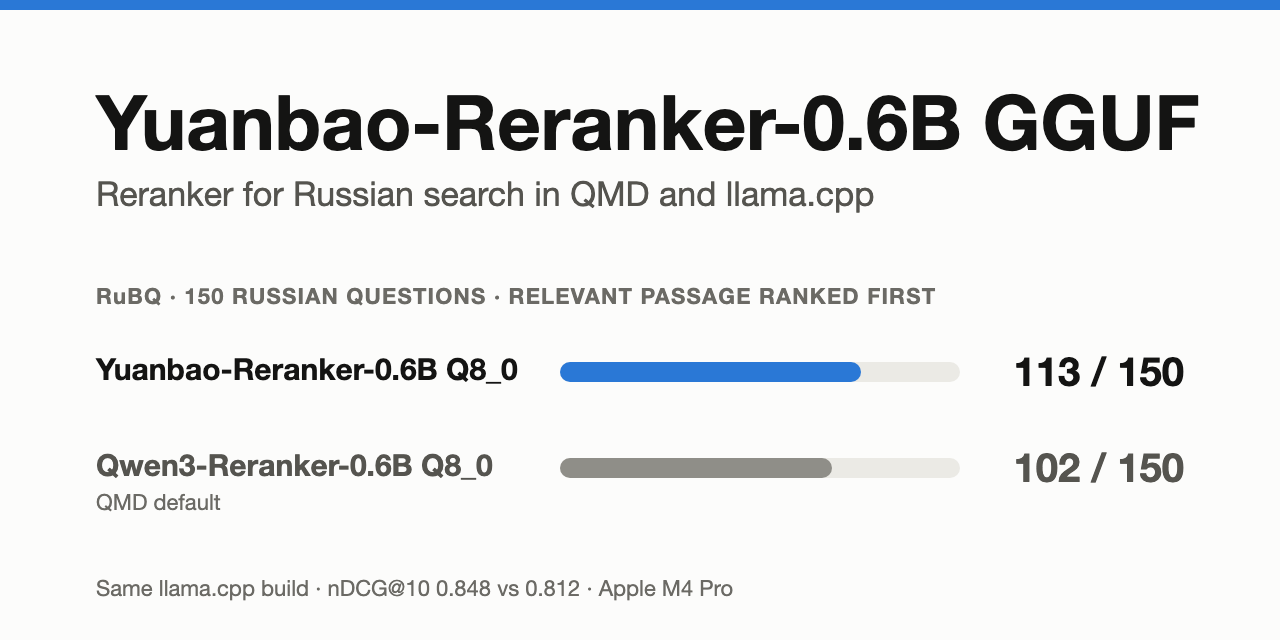
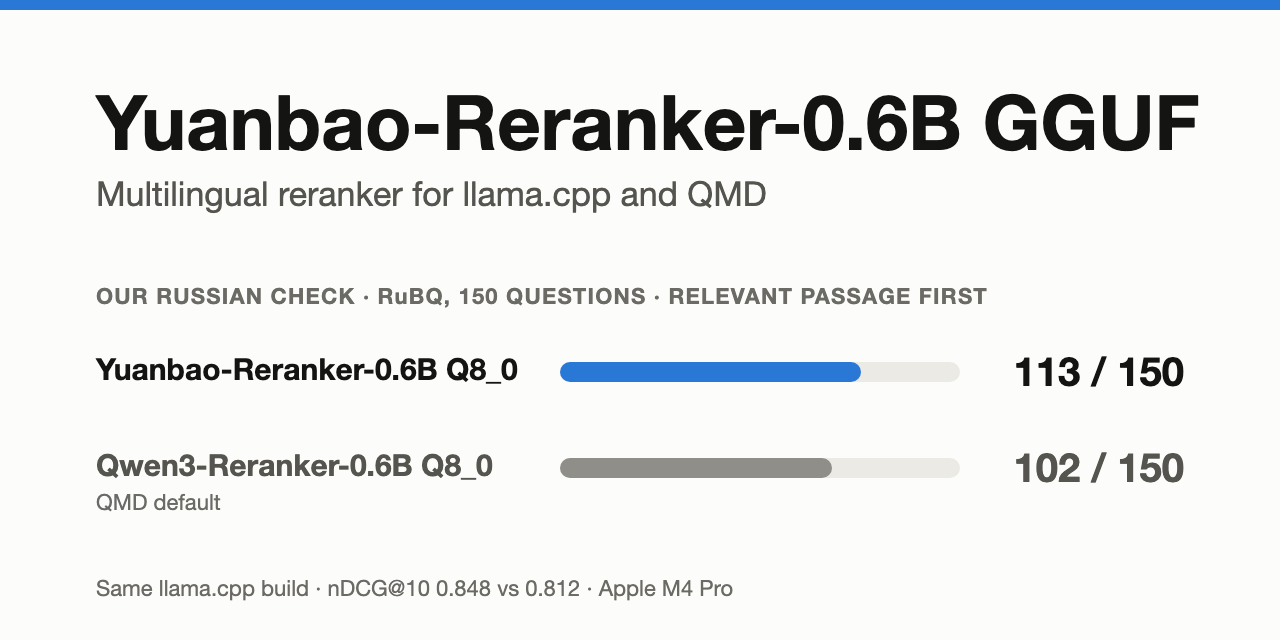
Present Yuanbao as a multilingual Qwen3-based reranker

Changed region(s): [[0.0625, 0.4375, 0.7812, 0.5], [0.0625, 0.2812, 0.6875, 0.3438]]

diff --git a/assets/header/build_header.py b/assets/header/build_header.py
@@ -23,12 +23,12 @@ FONT = "-apple-system, 'SF Pro Text', 'Helvetica Neue', Arial, sans-serif"
 
 TEXT = {
     "en": {
-        "subtitle": "Reranker for Russian search in QMD and llama.cpp",
+        "subtitle": "Multilingual reranker for llama.cpp and QMD",
         "files": "Q8_0 · Q4_K_M · F16",
-        "example": "ONE QUESTION, TWO PASSAGES · Q8_0 · llama-server /v1/rerank",
+        "example": "RUSSIAN EXAMPLE · ONE QUESTION, TWO PASSAGES · Q8_0 · /v1/rerank",
         "gloss": ["Open the subscriptions section and turn off automatic renewal.",
                   "To change the password, open the security settings."],
-        "rubq": "RuBQ · 150 RUSSIAN QUESTIONS · SAME LLAMA.CPP BUILD",
+        "rubq": "OUR RUSSIAN CHECK · RuBQ, 150 QUESTIONS · SAME LLAMA.CPP BUILD",
         "of": "of",
         "first": "relevant passage ranked first",
         "qwen": "Qwen3-Reranker-0.6B Q8_0 · QMD default",
@@ -36,11 +36,11 @@ TEXT = {
         "decimal": ".",
     },
     "ru": {
-        "subtitle": "Реранкер для русского поиска в QMD и llama.cpp",
+        "subtitle": "Многоязычный реранкер для llama.cpp и QMD",
         "files": "Q8_0 · Q4_K_M · F16",
-        "example": "ОДИН ВОПРОС, ДВА ФРАГМЕНТА · Q8_0 · llama-server /v1/rerank",
+        "example": "ПРИМЕР НА РУССКОМ · ОДИН ВОПРОС, ДВА ФРАГМЕНТА · Q8_0 · /v1/rerank",
         "gloss": None,
-        "rubq": "RuBQ · 150 РУССКИХ ВОПРОСОВ · ОДНА СБОРКА LLAMA.CPP",
+        "rubq": "НАША ПРОВЕРКА НА РУССКОМ · RuBQ, 150 ВОПРОСОВ · ОДНА СБОРКА LLAMA.CPP",
         "of": "из",
         "first": "релевантный фрагмент первым",
         "qwen": "Qwen3-Reranker-0.6B Q8_0 · штатный в QMD",

diff --git a/assets/header/build_social.py b/assets/header/build_social.py
@@ -34,8 +34,8 @@ out = [
     f'<rect width="{W}" height="{H}" fill="{SURFACE}"/>',
     f'<rect x="0" y="0" width="{W}" height="10" fill="{ACCENT}"/>',
     text(PAD, 150, "Yuanbao-Reranker-0.6B GGUF", 76, weight=700),
-    text(PAD, 206, "Reranker for Russian search in QMD and llama.cpp", 34, MUTED),
-    text(PAD, 304, f"RuBQ · {total} RUSSIAN QUESTIONS · RELEVANT PASSAGE RANKED FIRST", 22, FAINT, 600, spacing=1.2),
+    text(PAD, 206, "Multilingual reranker for llama.cpp and QMD", 34, MUTED),
+    text(PAD, 304, f"OUR RUSSIAN CHECK · RuBQ, {total} QUESTIONS · RELEVANT PASSAGE FIRST", 22, FAINT, 600, spacing=1.2),
 ]
 track_x, track_w, y = 560, 400, 376
 for label, note, model, color, ink in rows:
@@ -51,7 +51,7 @@ out.append(text(PAD, H - 44, "Same llama.cpp build · nDCG@10 0.848 vs 0.812 · 
 
 svg = (f'<svg xmlns="http://www.w3.org/2000/svg" width="{W}" height="{H}" viewBox="0 0 {W} {H}" '
        f'role="img" aria-labelledby="title" font-family="{FONT}">\n'
-       f'  <title id="title">Yuanbao-Reranker-0.6B GGUF: relevant passage first for 113 of 150 RuBQ questions, '
+       f'  <title id="title">Yuanbao-Reranker-0.6B GGUF, multilingual reranker. Russian RuBQ check: relevant passage first for 113 of 150 questions, '
        f'102 for Qwen3-Reranker-0.6B Q8_0</title>\n  ' + "\n  ".join(out) + "\n</svg>\n")
 (HERE / "social-preview.svg").write_text(svg)
 print("ok")

diff --git a/README.ru.md b/README.ru.md
@@ -1,9 +1,9 @@
 ---
 type: Project Guide
-description: "Yuanbao-Reranker-0.6B в GGUF Q8_0 и Q4_K_M: реранкер для русского поиска в QMD и llama-server /v1/rerank на Apple Silicon и CPU, оценка на RuBQ."
+description: "Многоязычный Yuanbao-Reranker-0.6B от Tencent (дообучен из Qwen3-0.6B) в GGUF Q8_0 и Q4_K_M: llama-server /v1/rerank на Metal и CPU, QMD на Metal, проверка на русском RuBQ."
 created: "2026-11-24"
 ---
-# Yuanbao-Reranker-0.6B GGUF: реранкер для русского языка в QMD и llama.cpp
+# Yuanbao-Reranker-0.6B GGUF: многоязычный реранкер для llama.cpp и QMD (Q8_0, Q4_K_M)
 
 [English](README.md) ·
 [Hugging Face](https://huggingface.co/ai-babai/Yuanbao-Reranker-0.6B-GGUF) ·
@@ -14,13 +14,9 @@ created: "2026-11-24"
 [Open WebUI + Giga Embeddings](docs/open-webui.md) ·
 [Для агентов](AGENTS.md)
 
-![Yuanbao-Reranker-0.6B GGUF. На вопрос «Как отключить автопродление подписки?» llama-server с Q8_0 дал абзацу о подписке 0,943, абзацу о пароле 0,0005. На 150 русских вопросах RuBQ Yuanbao Q8_0 поставил релевантный фрагмент первым в 113 случаях, Qwen3-Reranker-0.6B Q8_0 — в 102; nDCG@10 0,848 против 0,812.](assets/yuanbao-reranker-header-ru.png)
+![Yuanbao-Reranker-0.6B GGUF, многоязычный реранкер. Наш русский пример: на вопрос «Как отключить автопродление подписки?» llama-server с Q8_0 дал абзацу о подписке 0,943, абзацу о пароле 0,0005. На 150 русских вопросах RuBQ Yuanbao Q8_0 поставил релевантный фрагмент первым в 113 случаях, Qwen3-Reranker-0.6B Q8_0 — в 102; nDCG@10 0,848 против 0,812.](assets/yuanbao-reranker-header-ru.png)
 
-Многоязычный Yuanbao-Reranker-0.6B от Tencent в GGUF для локального поиска по
-русским текстам и RAG. Штатный `llama-server --reranking` отдаёт его через
-`/v1/rerank`, а QMD подключает через `models.rerank`. Проверено на Apple
-Silicon с Metal и на CPU. Независимая конвертация ai-babai, а не официальный
-релиз Tencent.
+Tencent дообучила Qwen3-0.6B для многоязычного поиска и RAG. В формате GGUF Yuanbao можно запускать локально для поиска по текстам на английском, китайском, русском и других языках. Мы проверили запуск в llama.cpp на Metal и CPU, интеграцию с QMD на Metal и качество ранжирования на русском бенчмарке RuBQ. [Статья Tencent](https://arxiv.org/abs/2611.10405)
 
 ## Какой файл выбрать
 
@@ -90,7 +86,7 @@ Horizon Labs. Все GGUF запускались на одной сборке ll
 Исходные веса BF16 в PyTorch на тех же вопросах дали 0,8488 и 0,8419.
 Три файла Yuanbao расходятся не больше чем на 0,0012 nDCG@10. Q4_K_M чаще
 меняет первый фрагмент, поэтому основным остаётся Q8_0.
-По сравнению с Qwen3 Q8_0 у Yuanbao Q8_0 nDCG@10 выше на 0,0355, парный
+По сравнению с Qwen3-Reranker-0.6B Q8_0 у Yuanbao Q8_0 nDCG@10 выше на 0,0355, парный
 бутстреп даёт 95-процентный интервал от +0,0184 до +0,0536. Horizon Labs
 опубликовали для BGE-Reranker-v2-m3 на этой выборке 0,8608 nDCG@10; это
 исходные веса на CUDA.
@@ -167,8 +163,10 @@ models:
 
 ## Что учесть перед использованием
 
-- Промпт ранжирования зашит в GGUF. В нём английская инструкция для
-  веб-поиска из оценки, и `/v1/rerank` не меняет её от запроса к запросу.
+- Во всех запросах используется одна встроенная английская инструкция
+  «Given a web search query, retrieve relevant passages that answer the query»:
+  вопрос и документы могут быть на русском, английском, китайском и других
+  языках, но заменить инструкцию под свою задачу через `/v1/rerank` нельзя.
 - Оценка нужна, чтобы упорядочить кандидатов для одного вопроса. Фиксированные
   пороги оценки мы не проверяли.
 - В оценке каждая пара «вопрос — фрагмент» ограничена 512 токенами. Более
@@ -203,7 +201,7 @@ uv run --script scripts/prepare_rubq.py /path/to/bench/rubq.parquet
 
 Независимая конвертация ai-babai
 [checkpoint Tencent Yuanbao Search](https://huggingface.co/Yuanbao-Search/Yuanbao-Reranker-0.6B/tree/0101299a7937a016848d8d55b092f6e31cfa312d),
-основанного на Qwen3, под лицензией Apache-2.0. Изменения: конвертация в GGUF
+дообученного Tencent из Qwen3-0.6B, под лицензией Apache-2.0. Изменения: конвертация в GGUF
 для ранжирования, настройка промпта и квантование. См. [LICENSE](LICENSE) и
 [NOTICE](NOTICE). Для сравнения использован
 [GGUF ggml-org Qwen3-Reranker-0.6B-Q8_0](https://huggingface.co/ggml-org/Qwen3-Reranker-0.6B-Q8_0-GGUF/tree/a02f48bb4f057028298c21fa033da2b30d7742d5).

diff --git a/model-card/README.ru.md b/model-card/README.ru.md
@@ -1,4 +1,4 @@
-# Yuanbao-Reranker-0.6B GGUF: реранкер для русского языка в QMD и llama.cpp
+# Yuanbao-Reranker-0.6B GGUF: многоязычный реранкер для llama.cpp и QMD (Q8_0, Q4_K_M)
 
 [English](README.md) ·
 [Быстрый старт](#быстрый-старт) ·
@@ -10,13 +10,9 @@
 [GitHub](https://github.com/ai-babai/yuanbao-reranker-gguf/blob/main/README.ru.md) ·
 [Исходная модель](https://huggingface.co/Yuanbao-Search/Yuanbao-Reranker-0.6B)
 
-![Yuanbao-Reranker-0.6B GGUF. На вопрос «Как отключить автопродление подписки?» llama-server с Q8_0 дал абзацу о подписке 0,943, абзацу о пароле 0,0005. На 150 русских вопросах RuBQ Yuanbao Q8_0 поставил релевантный фрагмент первым в 113 случаях, Qwen3-Reranker-0.6B Q8_0 — в 102; nDCG@10 0,848 против 0,812.](https://huggingface.co/ai-babai/Yuanbao-Reranker-0.6B-GGUF/resolve/main/assets/yuanbao-reranker-header-ru.png)
+![Yuanbao-Reranker-0.6B GGUF, многоязычный реранкер. Наш русский пример: на вопрос «Как отключить автопродление подписки?» llama-server с Q8_0 дал абзацу о подписке 0,943, абзацу о пароле 0,0005. На 150 русских вопросах RuBQ Yuanbao Q8_0 поставил релевантный фрагмент первым в 113 случаях, Qwen3-Reranker-0.6B Q8_0 — в 102; nDCG@10 0,848 против 0,812.](https://huggingface.co/ai-babai/Yuanbao-Reranker-0.6B-GGUF/resolve/main/assets/yuanbao-reranker-header-ru.png)
 
-Многоязычный Yuanbao-Reranker-0.6B от Tencent в GGUF для локального поиска по
-русским текстам и RAG. Штатный `llama-server --reranking` отдаёт его через
-`/v1/rerank`, а QMD подключает через `models.rerank`. Проверено на Apple
-Silicon с Metal и на CPU. Независимая конвертация ai-babai, а не официальный
-релиз Tencent.
+Tencent дообучила Qwen3-0.6B для многоязычного поиска и RAG. В формате GGUF Yuanbao можно запускать локально для поиска по текстам на английском, китайском, русском и других языках. Мы проверили запуск в llama.cpp на Metal и CPU, интеграцию с QMD на Metal и качество ранжирования на русском бенчмарке RuBQ. [Статья Tencent](https://arxiv.org/abs/2611.10405)
 
 ## Файлы
 
@@ -89,7 +85,7 @@ Labs. Все GGUF запускались на одной сборке llama.cpp 
 Исходные веса BF16 в PyTorch дали 0,8488 и 0,8419.
 Три файла Yuanbao расходятся не больше чем на 0,0012 nDCG@10. Q4_K_M чаще
 меняет первый фрагмент, поэтому основным остаётся Q8_0.
-По сравнению с Qwen3 Q8_0 у Yuanbao Q8_0 nDCG@10 выше на 0,0355, парный
+По сравнению с Qwen3-Reranker-0.6B Q8_0 у Yuanbao Q8_0 nDCG@10 выше на 0,0355, парный
 бутстреп даёт 95-процентный интервал от +0,0184 до +0,0536.
 
 [Полные результаты: равные оценки, согласие оценок, задержка и память, англ.](results/rubq-pilot.md) ·
@@ -142,8 +138,10 @@ models:
 ## Ограничения
 
 - Бенчмарк качества охватывает русский RuBQ. Для английского и китайского проверены по два примера.
-- Промпт ранжирования зашит в GGUF. В нём английская инструкция для
-  веб-поиска, и `/v1/rerank` не меняет её от запроса к запросу.
+- Во всех запросах используется одна встроенная английская инструкция
+  «Given a web search query, retrieve relevant passages that answer the query»:
+  вопрос и документы могут быть на русском, английском, китайском и других
+  языках, но заменить инструкцию под свою задачу через `/v1/rerank` нельзя.
 - Оценка нужна, чтобы упорядочить кандидатов для одного вопроса. Фиксированные
   пороги оценки мы не проверяли.
 - В оценке вход ограничен 512 токенами. Более длинные фрагменты могут
@@ -157,7 +155,7 @@ models:
 
 Apache-2.0, как у исходной модели. Конвертировано из
 [Yuanbao-Search/Yuanbao-Reranker-0.6B](https://huggingface.co/Yuanbao-Search/Yuanbao-Reranker-0.6B/tree/0101299a7937a016848d8d55b092f6e31cfa312d)
-ревизии `0101299`, основанной на Qwen3. Изменения: конвертация в GGUF для
+ревизии `0101299`, которую Tencent дообучила из Qwen3-0.6B. Изменения: конвертация в GGUF для
 ранжирования, настройка промпта и квантование. См. [LICENSE](LICENSE) и
 [NOTICE](NOTICE). Метки RuBQ распространяются по CC BY-SA 4.0.
 [Рецепт конвертации, англ.](docs/conversion.md)

diff --git a/README.md b/README.md
@@ -1,9 +1,9 @@
 ---
 type: Project Guide
-description: "Yuanbao-Reranker-0.6B GGUF in Q8_0 and Q4_K_M for QMD and llama-server /v1/rerank on Apple Silicon and CPU, with a Russian RuBQ evaluation."
+description: "Tencent's multilingual Yuanbao-Reranker-0.6B (Qwen3-0.6B fine-tune) in GGUF Q8_0 and Q4_K_M: llama-server /v1/rerank on Metal and CPU, QMD on Metal, Russian RuBQ check."
 created: "2026-11-24"
 ---
-# Yuanbao-Reranker-0.6B GGUF: Q8_0 and Q4_K_M reranker for Russian search in QMD and llama.cpp
+# Yuanbao-Reranker-0.6B GGUF: multilingual reranker for llama.cpp and QMD (Q8_0, Q4_K_M)
 
 [Русская версия](README.ru.md) ·
 [Hugging Face](https://huggingface.co/ai-babai/Yuanbao-Reranker-0.6B-GGUF) ·
@@ -14,12 +14,9 @@ created: "2026-11-24"
 [Open WebUI + Giga Embeddings](docs/open-webui.md) ·
 [For agents](AGENTS.md)
 
-![Yuanbao-Reranker-0.6B GGUF. For the question «Как отключить автопродление подписки?», llama-server with Q8_0 scored the subscription passage 0.943 and the password passage 0.0005. On 150 Russian RuBQ questions, Yuanbao Q8_0 ranked a relevant passage first for 113 and Qwen3-Reranker-0.6B Q8_0 for 102; nDCG@10 0.848 against 0.812.](assets/yuanbao-reranker-header-en.png)
+![Yuanbao-Reranker-0.6B GGUF, a multilingual reranker. Our Russian example: for the question «Как отключить автопродление подписки?», llama-server with Q8_0 scored the subscription passage 0.943 and the password passage 0.0005. On 150 Russian RuBQ questions in our check, Yuanbao Q8_0 ranked a relevant passage first for 113 and Qwen3-Reranker-0.6B Q8_0 for 102; nDCG@10 0.848 against 0.812.](assets/yuanbao-reranker-header-en.png)
 
-Tencent's multilingual Yuanbao-Reranker-0.6B in GGUF for local Russian search
-and RAG. Stock `llama-server --reranking` serves it at `/v1/rerank`, and QMD
-loads it through `models.rerank`. Tested on Apple Silicon with Metal and on
-CPU. Independent ai-babai conversion, not an official Tencent release.
+Tencent fine-tuned Qwen3-0.6B for multilingual search and RAG. This GGUF port of Yuanbao runs locally on English, Chinese, Russian and other languages. We tested llama.cpp on Apple Metal and CPU, QMD on Metal, and ranking quality on the Russian RuBQ benchmark. [Tencent’s paper](https://arxiv.org/abs/2611.10405)
 
 ## Choose a file
 
@@ -92,7 +89,7 @@ Higher is better.
 The original BF16 weights in PyTorch scored 0.8488 and 0.8419 on the same
 questions. The three Yuanbao files differ by at most 0.0012 nDCG@10. Q4_K_M changes which
 passage comes first more often, so Q8_0 stays the default.
-Against the Qwen3 Q8_0, Yuanbao Q8_0 gained +0.0355 nDCG@10, with a paired
+Against Qwen3-Reranker-0.6B Q8_0, Yuanbao Q8_0 gained +0.0355 nDCG@10, with a paired
 bootstrap 95% interval of +0.0184 to +0.0536.
 Horizon Labs published 0.8608 nDCG@10 for BGE-Reranker-v2-m3 on this sample,
 measured on CUDA with the original weights.
@@ -168,9 +165,10 @@ guide pairs it with Giga Embeddings served by a second llama-server.
 
 ## Before you rely on the scores
 
-- The ranking prompt is fixed in the GGUF. It uses the English web-search
-  instruction from the evaluation, and `/v1/rerank` does not change it per
-  request.
+- Every request uses one built-in English instruction, "Given a web search
+  query, retrieve relevant passages that answer the query": the query and
+  documents can be in Russian, English, Chinese or other languages, but `/v1/rerank` cannot swap the
+  instruction for a task-specific one.
 - Use the score to order candidates for one question. We did not test fixed
   score thresholds.
 - The evaluation limits each question–passage input to 512 tokens. Longer
@@ -205,7 +203,7 @@ The two models tested together in Open WebUI are listed in [Russian RAG on llama
 
 Independent ai-babai conversion of the
 [Tencent Yuanbao Search checkpoint](https://huggingface.co/Yuanbao-Search/Yuanbao-Reranker-0.6B/tree/0101299a7937a016848d8d55b092f6e31cfa312d),
-derived from Qwen3 and released under Apache-2.0. Modifications consist of the
+fine-tuned by Tencent from Qwen3-0.6B and released under Apache-2.0. Modifications consist of the
 reranking GGUF conversion, prompt configuration and quantization. See
 [LICENSE](LICENSE) and [NOTICE](NOTICE). The comparison uses the
 [ggml-org Qwen3-Reranker-0.6B-Q8_0 GGUF](https://huggingface.co/ggml-org/Qwen3-Reranker-0.6B-Q8_0-GGUF/tree/a02f48bb4f057028298c21fa033da2b30d7742d5).

diff --git a/model-card/README.md b/model-card/README.md
@@ -91,7 +91,7 @@ model-index:
       url: https://huggingface.co/ai-babai/Yuanbao-Reranker-0.6B-GGUF/blob/v0.1.1/results/rubq-pilot.md
 ---
 
-# Yuanbao-Reranker-0.6B GGUF: Q8_0 and Q4_K_M reranker for Russian search in QMD and llama.cpp
+# Yuanbao-Reranker-0.6B GGUF: multilingual reranker for llama.cpp and QMD (Q8_0, Q4_K_M)
 
 [Русская карточка](README.ru.md) ·
 [Quick start](#quick-start) ·
@@ -103,12 +103,9 @@ model-index:
 [GitHub](https://github.com/ai-babai/yuanbao-reranker-gguf) ·
 [Original model](https://huggingface.co/Yuanbao-Search/Yuanbao-Reranker-0.6B)
 
-![Yuanbao-Reranker-0.6B GGUF. For the question «Как отключить автопродление подписки?», llama-server with Q8_0 scored the subscription passage 0.943 and the password passage 0.0005. On 150 Russian RuBQ questions, Yuanbao Q8_0 ranked a relevant passage first for 113 and Qwen3-Reranker-0.6B Q8_0 for 102; nDCG@10 0.848 against 0.812.](https://huggingface.co/ai-babai/Yuanbao-Reranker-0.6B-GGUF/resolve/main/assets/yuanbao-reranker-header-en.png)
+![Yuanbao-Reranker-0.6B GGUF, a multilingual reranker. Our Russian example: for the question «Как отключить автопродление подписки?», llama-server with Q8_0 scored the subscription passage 0.943 and the password passage 0.0005. On 150 Russian RuBQ questions in our check, Yuanbao Q8_0 ranked a relevant passage first for 113 and Qwen3-Reranker-0.6B Q8_0 for 102; nDCG@10 0.848 against 0.812.](https://huggingface.co/ai-babai/Yuanbao-Reranker-0.6B-GGUF/resolve/main/assets/yuanbao-reranker-header-en.png)
 
-Tencent's multilingual Yuanbao-Reranker-0.6B in GGUF for local Russian search
-and RAG. Stock `llama-server --reranking` serves it at `/v1/rerank`, and QMD
-loads it through `models.rerank`. Tested on Apple Silicon with Metal and on
-CPU. Independent ai-babai conversion, not an official Tencent release.
+Tencent fine-tuned Qwen3-0.6B for multilingual search and RAG. This GGUF port of Yuanbao runs locally on English, Chinese, Russian and other languages. We tested llama.cpp on Apple Metal and CPU, QMD on Metal, and ranking quality on the Russian RuBQ benchmark. [Tencent’s paper](https://arxiv.org/abs/2611.10405)
 
 ## Files
 
@@ -182,7 +179,7 @@ stock `/v1/rerank` endpoint with a 512-token input limit. Higher is better.
 
 The original BF16 weights in PyTorch scored 0.8488 and 0.8419. The three Yuanbao files differ by at most 0.0012 nDCG@10. Q4_K_M changes which
 passage comes first more often, so Q8_0 stays the default.
-Against the Qwen3 Q8_0, Yuanbao Q8_0 gained +0.0355 nDCG@10, with a paired
+Against Qwen3-Reranker-0.6B Q8_0, Yuanbao Q8_0 gained +0.0355 nDCG@10, with a paired
 bootstrap 95% interval of +0.0184 to +0.0536.
 
 [Full results: ties, score agreement, latency and memory](results/rubq-pilot.md) ·
@@ -235,8 +232,10 @@ tested setup used Giga Embeddings for the dense search.
 ## Limitations
 
 - The quality benchmark covers Russian RuBQ. The English and Chinese checks each cover two example queries.
-- The ranking prompt is fixed in the GGUF. It uses an English web-search
-  instruction, and `/v1/rerank` does not change it per request.
+- Every request uses one built-in English instruction, "Given a web search
+  query, retrieve relevant passages that answer the query": the query and
+  documents can be in Russian, English, Chinese or other languages, but `/v1/rerank` cannot swap the
+  instruction for a task-specific one.
 - Use the score to order candidates for one question. We did not test fixed
   score thresholds.
 - The evaluation limits each input to 512 tokens. Longer passages can rank
@@ -250,7 +249,7 @@ The two models tested together in Open WebUI are listed in [Russian RAG on llama
 
 Apache-2.0, as the original model. Converted from
 [Yuanbao-Search/Yuanbao-Reranker-0.6B](https://huggingface.co/Yuanbao-Search/Yuanbao-Reranker-0.6B/tree/0101299a7937a016848d8d55b092f6e31cfa312d)
-at revision `0101299`, which is derived from Qwen3. Modifications consist of the
+at revision `0101299`, which Tencent fine-tuned from Qwen3-0.6B. Modifications consist of the
 reranking GGUF conversion, prompt configuration and quantization. See
 [LICENSE](LICENSE) and [NOTICE](NOTICE). RuBQ labels are under CC BY-SA 4.0.
 [Conversion recipe](docs/conversion.md)
